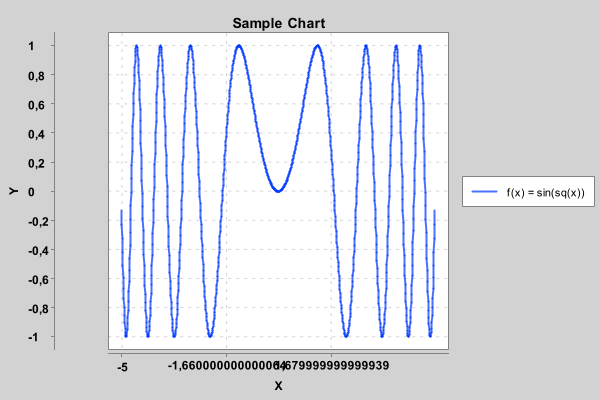
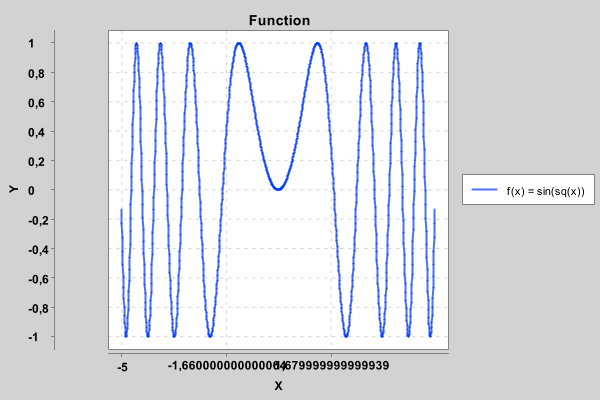
scaled getdata

diff --git a/src/main/java/com.mathp/Main.java b/src/main/java/com.mathp/Main.java
@@ -1,5 +1,6 @@
 package com.mathp;
 
+import java.awt.event.ActionListener;
 import java.math.BigDecimal;
 import java.math.RoundingMode;
 import java.text.DecimalFormat;
@@ -9,6 +10,8 @@ import java.util.List;
 import java.util.Scanner;
 
 import org.knowm.xchart.*;
+
+import javax.swing.event.SwingPropertyChangeSupport;
 
 public class Main {
 
@@ -43,43 +46,84 @@ public class Main {
         return MathParser.Syntax.EXPRESSION(_lexeme_buff);
     }
 
-    public static void main(String[] args) throws MathParser.SyntaxParseException, java.io.IOException {
-        Scanner input = new Scanner(System.in);
+    public static double[][] getScaledData(String function, double left, double right, List<Double> _coeffs, double precision)
+        throws MathParser.SyntaxParseException {
 
-        // f(x) = max(A, x, B)
-        String function = "f(x) = sin(sq(x))";
-
-        List<Double> coeffs = new ArrayList<>(Arrays.asList());
+        double scale = 16.0 / 9.0;
+        double step = 1.0 / Math.pow(10, precision);
 
         List<Double> xvals = new ArrayList<>();
-
         List<Double> yvals = new ArrayList<>();
 
-        for (double x = -5.0; x < 5.0; x = x + 0.01) {
+        for (double x = left; x < right; x = x + step) {
             xvals.add(x);
-            yvals.add(functionEval(function, x, coeffs));
+            double y = functionEval(function, x, _coeffs);
+            if (y < left / scale | y > right / scale) {
+                if (y <= left / scale)
+                    yvals.add(Double.NaN);
+                if (y >= right / scale)
+                    yvals.add(Double.NaN);
+            }
+            else
+                yvals.add(y);
         }
 
-        double[] xData = new double[xvals.size()];
-        double[] yData = new double[yvals.size()];
+        double[] x = new double[xvals.size()];
+        double[] y = new double[yvals.size()];
 
-        for (int index = 0; index < xvals.size(); index++) {
-            xData[index] = xvals.get(index);
-            yData[index] = yvals.get(index);
+        for (int i = 0; i < xvals.size(); i++) {
+            x[i] = xvals.get(i);
+            y[i] = yvals.get(i);
         }
 
-// Create Chart
-        XYChart chart = QuickChart.getChart("Sample Chart", "X", "Y", function, xData, yData);
+        return new double[][] {x, y};
+    }
 
-// Show it
+    public static double[][] getData(String function, double left, double right, List<Double> _coeffs)
+            throws MathParser.SyntaxParseException {
+
+        double precision = 3;
+        double step = (right - left) / Math.pow(10, precision);
+
+        List<Double> xvals = new ArrayList<>();
+        List<Double> yvals = new ArrayList<>();
+
+        for (double x = left; x < right; x = x + step) {
+            xvals.add(x);
+            yvals.add(functionEval(function, x, _coeffs));
+        }
+
+        double[] x = new double[xvals.size()];
+        double[] y = new double[yvals.size()];
+
+        for (int i = 0; i < xvals.size(); i++) {
+            x[i] = xvals.get(i);
+            y[i] = yvals.get(i);
+        }
+
+        return new double[][] {x, y};
+    }
+
+    public static void show(List<Double> _coeffs) {
+    }
+
+    public static void main(String[] args) throws MathParser.SyntaxParseException, java.io.IOException, InterruptedException {
+        Scanner input = new Scanner(System.in);
+
+        String function = input.nextLine();
+
+        double[][] data = getScaledData(function, -4.0, 4.0, new ArrayList<>(), 5.0);
+        double[] x = data[0];
+        double[] y = data[1];
+        double[] _x = new double[x.length];
+
+        for (int i = 0; i < x.length; i++) {
+            _x[i] = _round(x[i], 2);
+        }
+
+        XYChart chart = QuickChart.getChart("function", "x", "y", function, _x, y);
         new SwingWrapper(chart).displayChart();
-
-// Save it
-        BitmapEncoder.saveBitmap(chart, "./Sample_Chart", BitmapEncoder.BitmapFormat.PNG);
-
-// or save it in high-res
-        BitmapEncoder.saveBitmapWithDPI(chart, "./Sample_Chart_300_DPI", BitmapEncoder.BitmapFormat.PNG, 300);
-
     }
 }
+
 

diff --git a/src/main/java/com.proj/Main.java b/src/main/java/com.proj/Main.java
@@ -2,13 +2,21 @@ package com.proj;
 
 import com.mathp.MathParser;
 
+import javax.swing.*;
+
 public class Main {
 
     public static void main(String[] args) {
 
-        String function = "f(x) = max(x, A, B) + pow(x, 2)";
-
-        System.out.println(ULTRA_MAGIC_REPLACE(function, 'x', 3));
+        JFrame frame = new JFrame("My First GUI"); // Для окна нужна "рама" - Frame
+        // стандартное поведение при закрытии окна - завершение приложения
+        frame.setDefaultCloseOperation(JFrame.EXIT_ON_CLOSE);
+        frame.setSize(300, 300); // размеры окна
+        frame.setLocationRelativeTo(null); // окно - в центре экрана
+        JButton button = new JButton("Press"); // Экземпляр класса JButton
+        // getContentPane() - клиентская область окна
+        frame.getContentPane().add(button); // Добавляем кнопку на Frame
+        frame.setVisible(true); // Делаем окно видимым
     }
 
     public static String ULTRA_MAGIC_REPLACE(String SOURCE, char K, double value) {

diff --git a/src/main/java/com.mathp/MathParser.java b/src/main/java/com.mathp/MathParser.java
@@ -36,7 +36,6 @@ public class MathParser {
 
     private enum LexemeType {
         OPERATOR_ADD, OPERATOR_SUB, OPERATOR_MUL, OPERATOR_DIV,
-        OPERATOR_EXP,
         LEFT, RIGHT,
         NUMBER, COMMA, NAME,
         EOF
